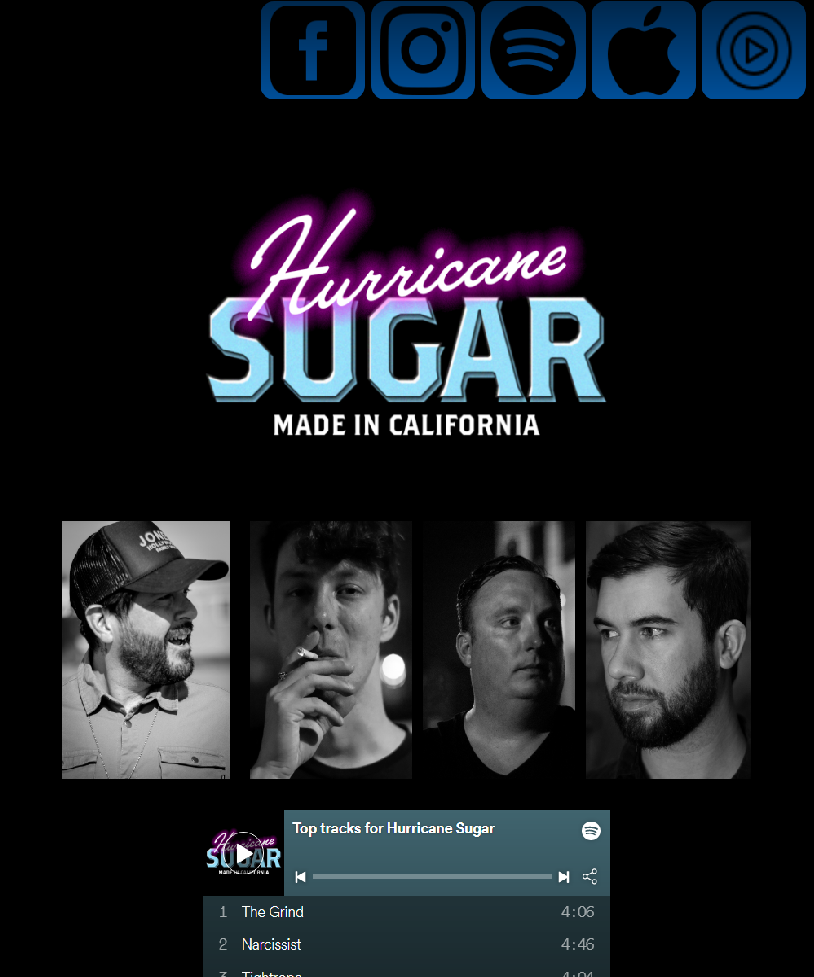
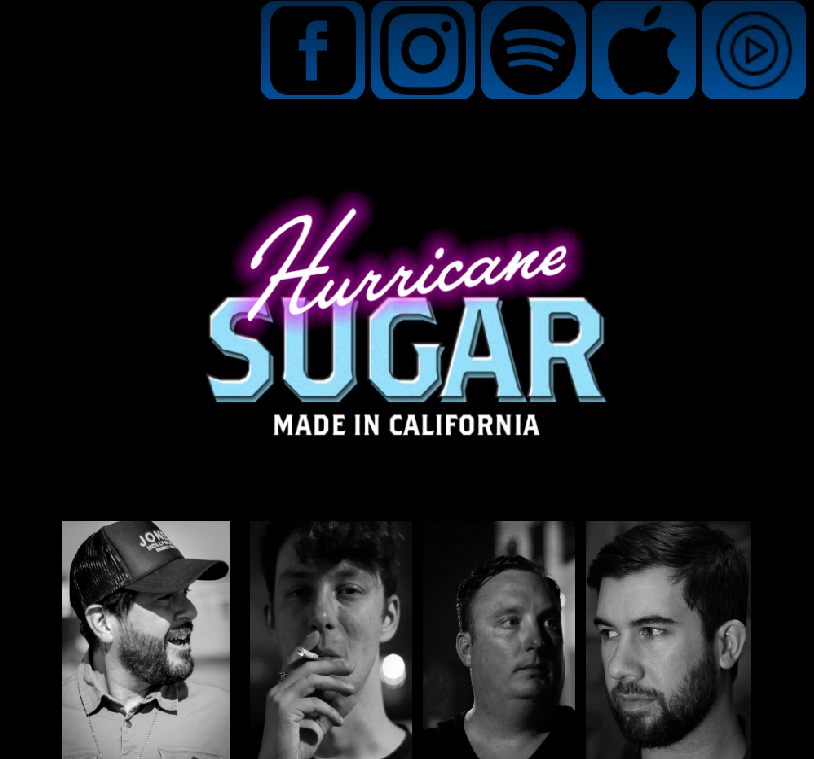
going to create sepperate cards for mobile and desktop

diff --git a/src/App.css b/src/App.css
@@ -58,6 +58,12 @@ h1 {
   height: 100%
 }
 
+.card img {
+  max-height: 50%;
+  object-fit: contain;
+  background-color: black;
+}
+
 .line-clamp {
   display: -webkit-box;
   -webkit-line-clamp: 4;
